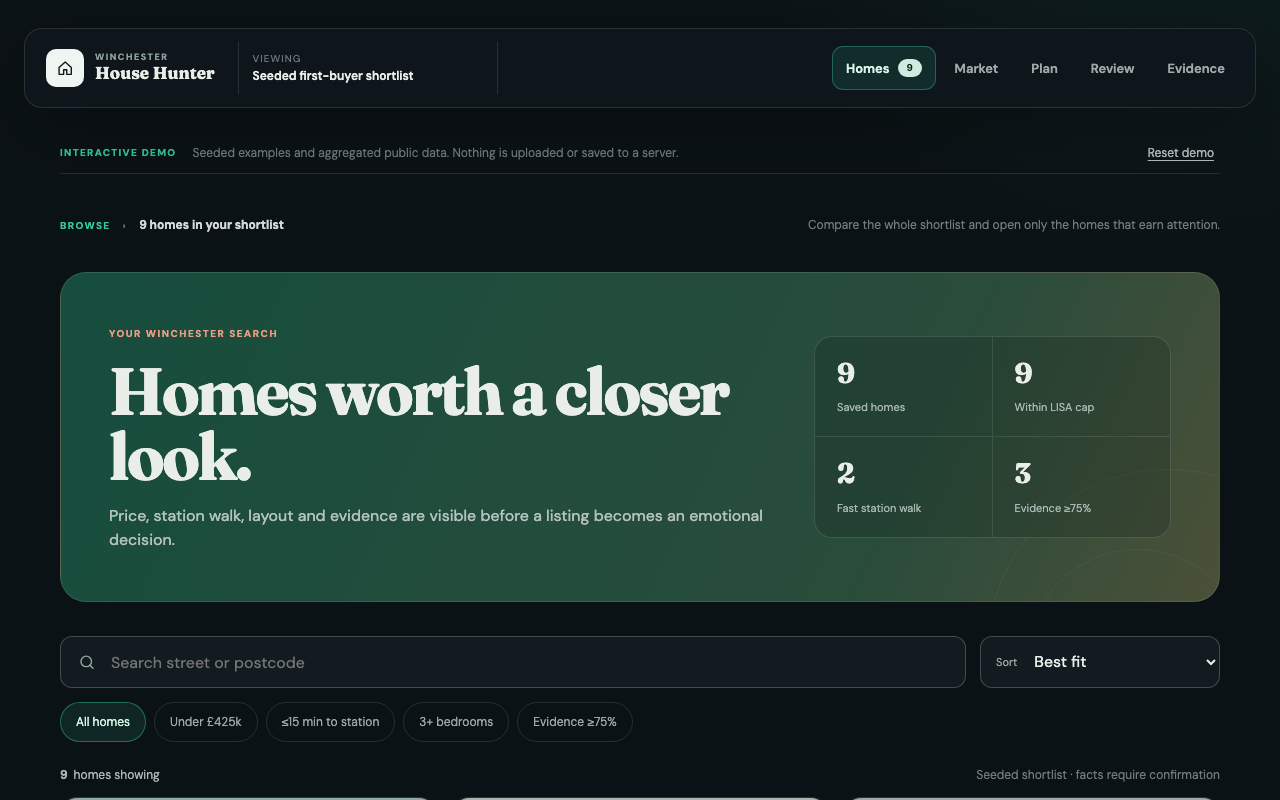
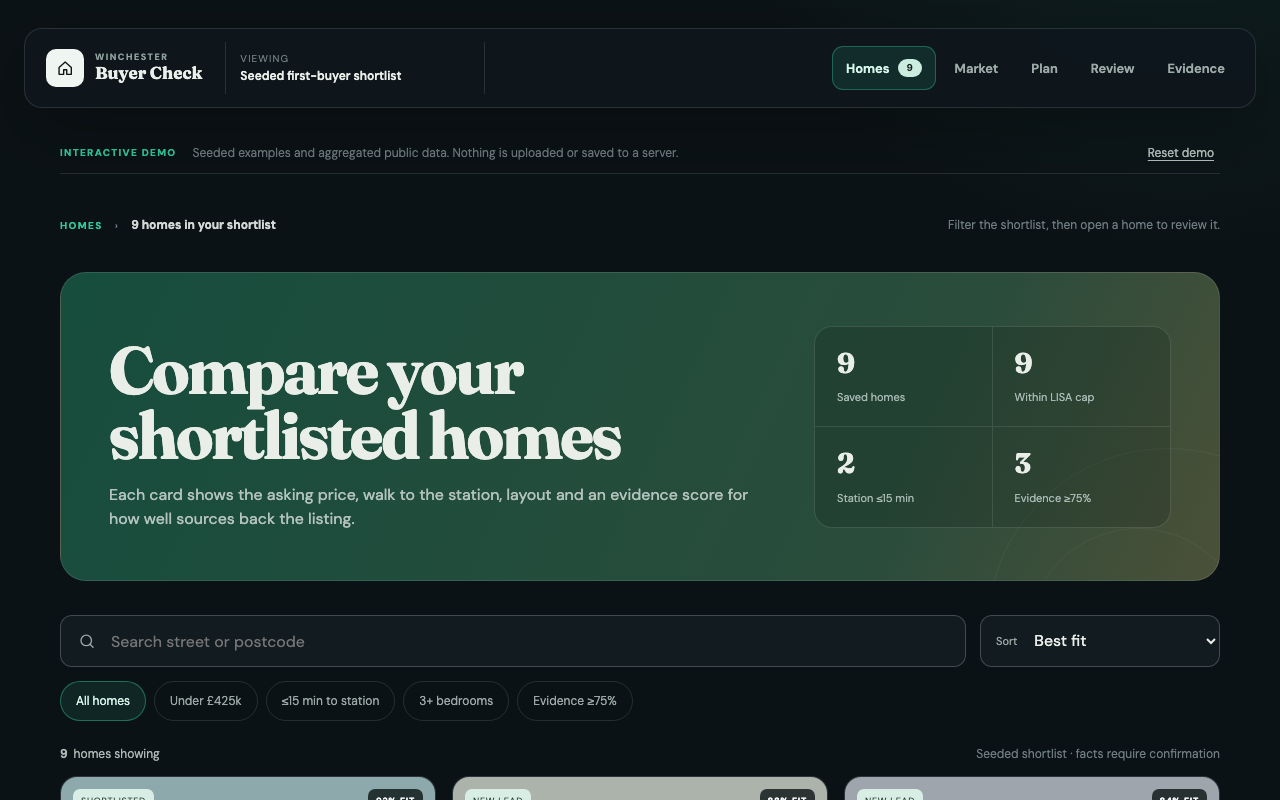
fix(copy): plain-English UI copy and Buyer Check name
Rename the visible app title from "House Hunter" to "Winchester Buyer
Check", replace marketing hero lines with plain descriptions, drop
redundant eyebrow labels and "X, not Y" phrasing. Honesty notices
(seeded examples, public data, rule-based checks) are unchanged.
Smoke test and README/showcase screenshots updated to match.

diff --git a/app.js b/app.js
@@ -33,7 +33,7 @@ const homes = [
     evidence: 74,
     soldBand: "£379k–£418k",
     verdict: "Good value",
-    note: "More space for the money, offset by a commute that needs a real door-to-platform test.",
+    note: "More space for the money. Walk the 22-minute route to the station before you decide.",
   },
   {
     id: "gordon-avenue",
@@ -51,7 +51,7 @@ const homes = [
     evidence: 68,
     soldBand: "£382k–£410k",
     verdict: "Worth viewing",
-    note: "A balanced candidate if the slower station journey is acceptable and the source facts check out.",
+    note: "Worth viewing if a 24-minute station walk suits you and the listing facts check out.",
   },
   {
     id: "imber-road",
@@ -69,7 +69,7 @@ const homes = [
     evidence: 72,
     soldBand: "£351k–£391k",
     verdict: "Budget leader",
-    note: "The largest cash cushion in the set, but condition and works need a disciplined inspection.",
+    note: "The cheapest home here, so it leaves the most cash spare. Check the condition and works carefully.",
   },
   {
     id: "eastcliffe",
@@ -87,7 +87,7 @@ const homes = [
     evidence: 78,
     soldBand: "£426k–£462k",
     verdict: "Cap-sensitive",
-    note: "A credible commute candidate, but there is no room to bid above the LISA ceiling.",
+    note: "A 15-minute station walk. It is priced at the LISA cap, so you cannot offer more.",
   },
   {
     id: "fulflood",
@@ -123,7 +123,7 @@ const homes = [
     evidence: 75,
     soldBand: "£397k–£432k",
     verdict: "Commute trade-off",
-    note: "Good space and an affordable asking price, but the station leg materially weakens the fit.",
+    note: "Good space at an affordable price. The 38-minute walk to the station lowers the score.",
   },
   {
     id: "canon-street",
@@ -141,7 +141,7 @@ const homes = [
     evidence: 59,
     soldBand: "£432k–£466k",
     verdict: "Verify first",
-    note: "At the hard cap with limited outside space, so evidence quality and condition must be unusually strong.",
+    note: "Priced at the £450k cap with only a patio. Check the evidence and condition before going further.",
   },
   {
     id: "hyde-edge",
@@ -159,7 +159,7 @@ const homes = [
     evidence: 63,
     soldBand: "£425k–£468k",
     verdict: "Works risk",
-    note: "High potential, but works pressure and the LISA ceiling leave little tolerance for surprises.",
+    note: "Three bedrooms at the £450k cap. It needs works, which leaves no budget for surprises.",
   },
 ];
 
@@ -327,17 +327,16 @@ function homeCards() {
 
 function renderHomes() {
   workspace.innerHTML = `
-    ${pageIntro("Browse", `${homes.length} homes in your shortlist`, "Compare the whole shortlist and open only the homes that earn attention.")}
+    ${pageIntro("Homes", `${homes.length} homes in your shortlist`, "Filter the shortlist, then open a home to review it.")}
     <section class="feature-hero feature-hero--homes">
       <div>
-        <span class="section-kicker">Your Winchester search</span>
-        <h1>Homes worth a closer look.</h1>
-        <p>Price, station walk, layout and evidence are visible before a listing becomes an emotional decision.</p>
+        <h1>Compare your shortlisted homes</h1>
+        <p>Each card shows the asking price, walk to the station, layout and an evidence score for how well sources back the listing.</p>
       </div>
       <dl class="hero-metrics">
         <div><dt>Saved homes</dt><dd>${homes.length}</dd></div>
         <div><dt>Within LISA cap</dt><dd>${homes.filter((home) => home.price <= 450000).length}</dd></div>
-        <div><dt>Fast station walk</dt><dd>${homes.filter((home) => home.station <= 15).length}</dd></div>
+        <div><dt>Station ≤15 min</dt><dd>${homes.filter((home) => home.station <= 15).length}</dd></div>
         <div><dt>Evidence ≥75%</dt><dd>${homes.filter((home) => home.evidence >= 75).length}</dd></div>
       </dl>
     </section>
@@ -416,11 +415,11 @@ function renderMarket() {
     year: "numeric",
   });
   workspace.innerHTML = `
-    ${pageIntro("Research", "Winchester sold-price evidence", "Use completed sales to challenge an asking price; do not confuse them with live availability.")}
+    ${pageIntro("Market", "Winchester sold prices", "Completed 2025 sales to compare against an asking price. None of these homes is for sale now.")}
     <section class="feature-hero feature-hero--market">
       <div>
         <span class="section-kicker">HM Land Registry snapshot</span>
-        <h1>See what homes actually sold for.</h1>
+        <h1>2025 sold prices by area and property type</h1>
         <p>${coverage.includedRecords.toLocaleString("en-GB")} of ${coverage.sourceRecords.toLocaleString("en-GB")} traced Winchester-district records meet the published filters, covering ${coverage.earliestSale} to ${coverage.latestSale}.</p>
       </div>
       <div class="source-stamp">${icon("shield")}<strong>Official completed-sale data</strong><span>Open Government Licence v3.0</span></div>
@@ -444,15 +443,14 @@ function renderMarket() {
         </div>
       </div>
       <aside class="market-note">
-        <span class="section-kicker">How to use it</span>
-        <h2>Challenge the listing, not the buyer.</h2>
+        <h2>Using these prices</h2>
         <ol>
           <li>Start with the closest property type and postcode.</li>
-          <li>Check the spread, not only the median.</li>
+          <li>Look at the full price band as well as the median.</li>
           <li>Adjust for condition, tenure, size and sale date.</li>
           <li>Keep listing claims separate from official completed sales.</li>
         </ol>
-        <p>Historical 2025 sales, not live listings. Source snapshot retrieved ${generated}; registrations and corrections can change later releases. The nine example homes are fictional.</p>
+        <p>These are completed 2025 sales. Source snapshot retrieved ${generated}; registrations and corrections can change later releases. The nine example homes are fictional.</p>
         <details><summary>Inclusion rules and retained source</summary><p>Category A and record-status A rows in the retained yearly file, four residential property types and prices from ${formatMoney.format(filters.priceRangeGbp[0])} to ${formatMoney.format(filters.priceRangeGbp[1])}. The displayed band is the 25th–75th percentile. <a href="data/price-paid-source.json">Inspect retained source and checksum</a> · <a href="docs/MARKET_DATA_CONTRACT.md">Read the data contract</a>.</p></details>
       </aside>
     </section>
@@ -506,21 +504,20 @@ function planResults() {
       </dl>
     </div>
     <div class="scenario-grid">
-      <article><span>Bare completion</span><strong>${formatMoney.format(Math.min(450000, result.borrowingCapacity + state.plan.deposit - state.plan.fees))}</strong><p>Fees included; no reserve or works allowance.</p></article>
+      <article><span>Purchase and fees</span><strong>${formatMoney.format(Math.min(450000, result.borrowingCapacity + state.plan.deposit - state.plan.fees))}</strong><p>Fees included; no reserve or works allowance.</p></article>
       <article><span>With reserve</span><strong>${formatMoney.format(Math.min(450000, result.borrowingCapacity + state.plan.deposit - state.plan.fees - state.plan.reserve))}</strong><p>Keeps ${formatMoney.format(state.plan.reserve)} after completion.</p></article>
-      <article class="active"><span>Make it mine</span><strong>${formatMoney.format(result.modelledMaxPrice)}</strong><p>Reserve plus ${formatMoney.format(state.plan.works)} first-year works.</p></article>
+      <article class="active"><span>Reserve and works</span><strong>${formatMoney.format(result.modelledMaxPrice)}</strong><p>Reserve plus ${formatMoney.format(state.plan.works)} first-year works.</p></article>
     </div>
   `;
 }
 
 function renderPlan() {
   workspace.innerHTML = `
-    ${pageIntro("Plan", "Your buying plan", "Test price, borrowing, cash reserve and works together rather than treating the deposit as the whole decision.")}
+    ${pageIntro("Plan", "Your buying plan", "Enter the price, borrowing, cash reserve and works costs to see what you can afford.")}
     <section class="feature-hero feature-hero--plan">
       <div>
-        <span class="section-kicker">Affordability lab</span>
-        <h1>Find the usable ceiling.</h1>
-        <p>The £450,000 LISA limit is only the outer edge. Borrowing, fees, reserve and first-year works determine the safer number.</p>
+        <h1>Work out your maximum price</h1>
+        <p>You can only use a Lifetime ISA on a home costing £450,000 or less. Your borrowing, fees, reserve and first-year works may set a lower limit.</p>
       </div>
       <div class="source-stamp">${icon("shield")}<strong>Runs in this browser</strong><span>Inputs are not transmitted</span></div>
     </section>
@@ -565,7 +562,7 @@ function renderReview() {
   const home = selectedHome();
   const offer = reviewSummary(home);
   workspace.innerHTML = `
-    ${pageIntro("Review", home.name, "Affordability, source quality, viewing checks and negotiation in one decision record.")}
+    ${pageIntro("Review", home.name, "Affordability, sources, viewing checks and an offer range for this home.")}
     <section class="review-hero">
       <div class="review-art">${homeArtwork(home, homes.indexOf(home))}</div>
       <div class="review-title">
@@ -586,22 +583,21 @@ function renderReview() {
     </section>
     <section class="review-grid">
       <div class="review-column">
-        <div class="section-heading"><span class="section-kicker">Rule-based checks</span><h2>What changes the decision</h2></div>
+        <div class="section-heading"><span class="section-kicker">Rule-based checks</span><h2>Finance, commute and evidence</h2></div>
         <div class="rule-checks">
-          <article><span>Finance</span><strong>${home.price === 450000 ? "Hard ceiling" : `${formatMoney.format(450000 - home.price)} below LISA cap`}</strong><p>${home.price === 450000 ? "Do not let an offer or fixture negotiation push the purchase price above the qualifying limit." : "Keep the remaining cash for fees, reserve and condition risk rather than treating it as bidding room."}</p></article>
-          <article><span>Commute</span><strong>${home.station <= 15 ? "Strong station fit" : home.station <= 22 ? "Test the route" : "Material trade-off"}</strong><p>The model keeps the property-to-station leg separate from Winchester-to-Waterloo and the onward desk journey.</p></article>
-          <article><span>Evidence</span><strong>${home.evidence >= 75 ? "Reviewable" : "Gaps remain"}</strong><p>${home.evidence >= 75 ? "Enough source coverage exists for a viewing decision, but not for an unconditional offer." : "Resolve title, condition or listing-fact gaps before relying on the score."}</p></article>
+          <article><span>Finance</span><strong>${home.price === 450000 ? "Hard ceiling" : `${formatMoney.format(450000 - home.price)} below LISA cap`}</strong><p>${home.price === 450000 ? "Do not let an offer or fixture negotiation push the purchase price above the qualifying limit." : "Keep the remaining cash for fees, reserve and repairs. Don't spend it on a higher offer."}</p></article>
+          <article><span>Commute</span><strong>${home.station <= 15 ? "Short walk" : home.station <= 22 ? "Test the route" : "Long walk"}</strong><p>This scores the walk to Winchester station only. The train to Waterloo and the rest of the journey sit outside the check.</p></article>
+          <article><span>Evidence</span><strong>${home.evidence >= 75 ? "Reviewable" : "Gaps remain"}</strong><p>${home.evidence >= 75 ? "The sources cover enough to decide on a viewing. Confirm the rest before you make an offer." : "Fill the title, condition or listing gaps before you rely on the score."}</p></article>
         </div>
       </div>
       <aside class="negotiation-card">
-        <span class="section-kicker">Negotiation frame</span>
-        <h2>Keep an evidence-led range.</h2>
+        <h2>Offer range</h2>
         <dl>
           <div><dt>Opening position</dt><dd>${formatMoney.format(offer.opening)}</dd></div>
           <div><dt>Target deal</dt><dd>${formatMoney.format(offer.offerTarget)}</dd></div>
           <div><dt>Walk-away price</dt><dd>${formatMoney.format(offer.walkAway)}</dd></div>
         </dl>
-        <p>Illustrative planning range only. A survey, broker and conveyancer must replace assumptions with verified facts.</p>
+        <p>An illustrative range from the demo rules. A survey, broker and conveyancer need to confirm the facts before you offer.</p>
         <button type="button" id="copy-review">Copy review summary</button>
         <button type="button" class="secondary" id="mark-viewing">Mark ready for viewing</button>
       </aside>
@@ -613,7 +609,7 @@ function renderReview() {
     renderReview();
   });
   document.getElementById("copy-review").addEventListener("click", async () => {
-    const text = `${home.name}\n${formatMoney.format(home.price)} · ${home.score}/100 · ${home.verdict}\nStation ${home.station} min · Evidence ${home.evidence}%\nTarget deal ${formatMoney.format(offer.offerTarget)}\n\nSeeded Winchester House Hunter demo. Verify all facts before acting.`;
+    const text = `${home.name}\n${formatMoney.format(home.price)} · ${home.score}/100 · ${home.verdict}\nStation ${home.station} min · Evidence ${home.evidence}%\nTarget deal ${formatMoney.format(offer.offerTarget)}\n\nSeeded Winchester Buyer Check demo. Verify all facts before acting.`;
     try {
       await navigator.clipboard.writeText(text);
       showToast("Review summary copied");
@@ -628,18 +624,17 @@ function renderEvidence() {
   const complete = evidenceTasks.filter((task) => state.evidence.includes(task.id)).length;
   const readiness = Math.round((complete / evidenceTasks.length) * 100);
   workspace.innerHTML = `
-    ${pageIntro("Verify", "Evidence centre", "Keep official records, source claims and buyer observations separate before relying on a recommendation.")}
+    ${pageIntro("Evidence", "Evidence checklist", "Official records, agent claims and your own checks, listed separately.")}
     <section class="feature-hero feature-hero--evidence">
       <div>
-        <span class="section-kicker">Decision record</span>
-        <h1>Know what is fact, inference and still missing.</h1>
-        <p>The demo models provenance and gaps rather than turning a thin listing into a confident recommendation.</p>
+        <h1>Confirmed facts, assumptions and gaps</h1>
+        <p>The demo records where each fact came from and which checks are still open.</p>
       </div>
       <div class="readiness-ring" style="--readiness:${readiness * 3.6}deg"><span><strong id="readiness-value">${readiness}%</strong>review ready</span></div>
     </section>
     <section class="evidence-layout">
       <div>
-        <div class="section-heading"><span class="section-kicker">Checks for ${selectedHome().name}</span><h2>Before the viewing decision</h2></div>
+        <div class="section-heading"><h2>Checks for ${selectedHome().name}</h2></div>
         <div class="check-list" id="evidence-checks">
           ${evidenceTasks
             .map(
@@ -653,8 +648,7 @@ function renderEvidence() {
         </div>
       </div>
       <aside class="source-register">
-        <span class="section-kicker">Source register</span>
-        <h2>Four different levels of reliance.</h2>
+        <h2>Sources and how far to rely on them</h2>
         <article><b class="source-dot official"></b><div><strong>HM Land Registry</strong><span>Official · completed sales · bundled demo snapshot</span></div><em>High</em></article>
         <article><b class="source-dot supplied"></b><div><strong>Agent listing</strong><span>Supplied claim · current availability requires recheck</span></div><em>Medium</em></article>
         <article><b class="source-dot model"></b><div><strong>Affordability model</strong><span>Calculated from explicit buyer assumptions</span></div><em>Inspect</em></article>
@@ -663,7 +657,7 @@ function renderEvidence() {
     </section>
     <section class="boundary-note">
       ${icon("shield")}
-      <div><strong>Demo boundary</strong><p>No live portal scraping, customer account, mortgage decision or offer is created here. Checklist changes stay in this browser.</p></div>
+      <div><strong>Demo boundary</strong><p>The demo does not scrape listing sites, create accounts, make mortgage decisions or send offers. Checklist changes stay in this browser.</p></div>
     </section>
   `;
   document.querySelectorAll("#evidence-checks input").forEach((input) => {

diff --git a/index.html b/index.html
@@ -5,10 +5,10 @@
     <meta name="viewport" content="width=device-width, initial-scale=1.0" />
     <meta
       name="description"
-      content="A seeded, browser-only demo of Winchester House Hunter: compare homes, inspect market evidence and test a buying plan."
+      content="A seeded, browser-only demo of Winchester Buyer Check: compare homes, check 2025 sold prices and test a buying plan."
     />
     <meta name="theme-color" content="#0b1215" />
-    <title>Winchester House Hunter · Interactive demo</title>
+    <title>Winchester Buyer Check · Interactive demo</title>
     <link rel="icon" type="image/svg+xml" href="favicon.svg" />
     <link rel="preconnect" href="https://fonts.googleapis.com" />
     <link rel="preconnect" href="https://fonts.gstatic.com" crossorigin />
@@ -22,11 +22,11 @@
     <a class="skip-link" href="#workspace">Skip to workspace</a>
 
     <header class="app-header">
-      <a class="brand" href="#homes" data-route="homes" aria-label="Winchester House Hunter home">
+      <a class="brand" href="#homes" data-route="homes" aria-label="Winchester Buyer Check home">
         <span class="brand-mark" aria-hidden="true">
           <svg viewBox="0 0 24 24"><path d="m4 11 8-7 8 7v9h-6v-6h-4v6H4z" /></svg>
         </span>
-        <span><small>Winchester</small><strong>House Hunter</strong></span>
+        <span><small>Winchester</small><strong>Buyer Check</strong></span>
       </a>
 
       <div class="workspace-switcher" aria-label="Demo workspace">
@@ -52,7 +52,7 @@
     <main id="workspace" tabindex="-1"></main>
 
     <footer>
-      <p>Planning software, not financial, mortgage, legal or survey advice.</p>
+      <p>Planning software only. It does not give financial, mortgage, legal or survey advice.</p>
       <div>
         <a href="https://github.com/MatthewPaver">Matthew Paver</a>
         <span>·</span>

diff --git a/tests/smoke.py b/tests/smoke.py
@@ -4,7 +4,7 @@ import os
 from playwright.sync_api import sync_playwright
 
 
-OUTPUT = Path("/tmp/winchester-house-hunter.png")
+OUTPUT = Path("/tmp/winchester-buyer-check.png")
 SHOWCASE = Path(os.environ.get("WINCHESTER_SHOWCASE_PATH", "/tmp/winchester-showcase.png"))
 BASE_URL = os.environ.get("WINCHESTER_BASE_URL", "http://127.0.0.1:8765")
 
@@ -19,8 +19,8 @@ with sync_playwright() as playwright:
     page.goto(BASE_URL)
     page.wait_for_load_state("networkidle")
 
-    assert page.title() == "Winchester House Hunter · Interactive demo"
-    page.get_by_role("heading", name="Homes worth a closer look.").wait_for()
+    assert page.title() == "Winchester Buyer Check · Interactive demo"
+    page.get_by_role("heading", name="Compare your shortlisted homes").wait_for()
     assert page.locator(".home-card").count() == 9
 
     showcase = browser.new_page(viewport={"width": 1200, "height": 675})
@@ -30,7 +30,7 @@ with sync_playwright() as playwright:
     showcase.close()
 
     page.get_by_role("link", name="Market").click()
-    page.get_by_role("heading", name="See what homes actually sold for.").wait_for()
+    page.get_by_role("heading", name="2025 sold prices by area and property type").wait_for()
     assert "931 of 1,046" in page.locator(".feature-hero--market").inner_text()
     assert "2025-01-02 to 2025-12-24" in page.locator(".feature-hero--market").inner_text()
     page.get_by_label("Postcode area").select_option("SO23")
@@ -61,7 +61,7 @@ with sync_playwright() as playwright:
     mobile.wait_for_load_state("networkidle")
     assert mobile.evaluate("document.documentElement.scrollWidth <= document.documentElement.clientWidth")
     mobile.get_by_role("link", name="Plan").click()
-    mobile.get_by_role("heading", name="Find the usable ceiling.").wait_for()
+    mobile.get_by_role("heading", name="Work out your maximum price").wait_for()
     assert not errors, errors
     browser.close()
 
